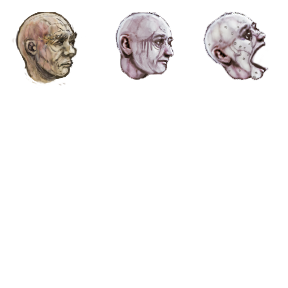
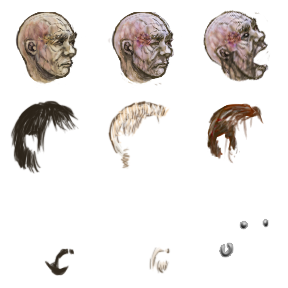
Continue working on the hair implementation. Define the hair types in the character config instead of a separate file.

diff --git a/Barotrauma/BarotraumaShared/Source/Items/Components/Wearable.cs b/Barotrauma/BarotraumaShared/Source/Items/Components/Wearable.cs
@@ -7,8 +7,15 @@ using System.Xml.Linq;
 
 namespace Barotrauma.Items.Components
 {
+    public enum WearableType
+    {
+        Item,
+        Hair
+    }
+
     class WearableSprite
     {
+        public WearableType Type { get; private set; }
         public Sprite Sprite { get; private set; }
         public LimbType Limb { get; private set; }
         public bool HideLimb { get; private set; }
@@ -24,18 +31,30 @@ namespace Barotrauma.Items.Components
 
         public LightComponent LightComponent { get; set; }
 
-        public WearableSprite(XElement subElement)
+        public WearableSprite(XElement subElement, WearableType type)
         {
+            Type = type;
             Init(subElement, subElement.Attribute("texture").Value);
             var index = subElement.GetAttributePoint("sheetindex", new Point(-1, -1));
             if (index.X > -1 && index.Y > -1)
             {
                 SheetIndex = index;
             }
+            if (Type == WearableType.Hair)
+            {
+                Limb = LimbType.Head;
+                HideLimb = false;
+                HideOtherWearables = false;
+                InheritLimbDepth = true;
+                InheritTextureScale = true;
+                InheritOrigin = true;
+                InheritSourceRect = true;
+            }
         }
 
         public WearableSprite(XElement subElement, Wearable item)
         {
+            Type = WearableType.Item;
             WearableComponent = item;
             Init(subElement, Path.GetDirectoryName(item.Item.Prefab.ConfigFile) + "/" + subElement.Attribute("texture").Value);
         }

diff --git a/Barotrauma/BarotraumaShared/Source/Characters/Character.cs b/Barotrauma/BarotraumaShared/Source/Characters/Character.cs
@@ -623,19 +623,10 @@ namespace Barotrauma
                 Spawner.CreateNetworkEvent(newCharacter, false);
             }
 
-            if (file == humanConfigFile)
+            if (characterInfo != null)
             {
-                // Test load hair, TODO: refactor
                 var head = newCharacter.AnimController.GetLimb(LimbType.Head);
-                string hairConfig = GameMain.Instance.GetFilesOfType(ContentType.Hair).GetRandom();
-                XDocument doc = XMLExtensions.TryLoadXml(hairConfig);
-                if (doc != null && doc.Root != null)
-                {
-                    doc.Root.Elements("Wearable")
-                        .GetRandom()
-                        .Elements("sprite")
-                        .ForEach(s => head.OtherWearables.Add(new WearableSprite(s)));
-                }
+                characterInfo.HairElement.Elements("sprite").ForEach(s => head.OtherWearables.Add(new WearableSprite(s, WearableType.Hair)));
             }
 
             return newCharacter;

diff --git a/Barotrauma/BarotraumaShared/Source/Characters/CharacterInfo.cs b/Barotrauma/BarotraumaShared/Source/Characters/CharacterInfo.cs
@@ -1,4 +1,5 @@
 using Barotrauma.Networking;
+using Barotrauma.Extensions;
 using Lidgren.Network;
 using Microsoft.Xna.Framework;
 using System;
@@ -78,6 +79,8 @@ namespace Barotrauma
         private int headSpriteId;
         private Sprite headSprite;
         private Sprite portrait;
+
+        public XElement HairElement { get; private set; }
 
         public bool StartItemsGiven;
 
@@ -262,6 +265,17 @@ namespace Barotrauma
             if (ragdoll != null)
             {
                 this.ragdoll = ragdoll;
+            }
+
+            var hairRoot = doc.Root.Element("Hair");
+            if (hairRoot == null)
+            {
+                hairRoot = doc.Root.Element("hair");
+            }
+            if (hairRoot != null)
+            {
+                // TODO: allow only the one with the same head
+                HairElement = hairRoot.Elements("Wearable").GetRandom();
             }
         }
 

diff --git a/Barotrauma/BarotraumaShared/Source/ContentPackage.cs b/Barotrauma/BarotraumaShared/Source/ContentPackage.cs
@@ -30,8 +30,7 @@ namespace Barotrauma
         NPCConversations,
         Afflictions,
         Tutorials,
-        UIStyle,
-        Hair
+        UIStyle
     }
 
     public class ContentPackage
